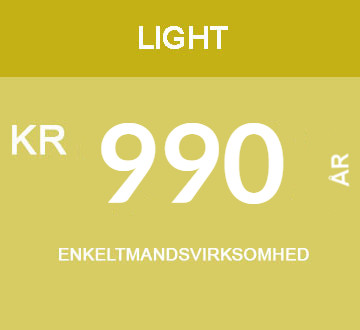
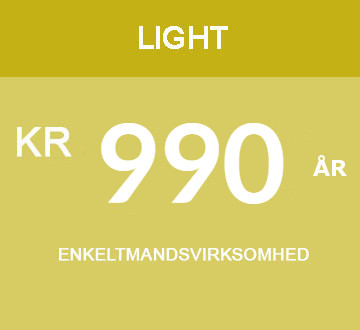
New updates of ebogholderen Price tags and contact image

Changed region(s): [[0.0306, 0.3636, 0.2139, 0.4848], [0.8556, 0.4545, 0.9778, 0.5758]]

diff --git a/frontend/assets/js/ebogholderen.pricing-plans.js b/frontend/assets/js/ebogholderen.pricing-plans.js
@@ -56,9 +56,9 @@ $(document).ready(function () {
                 button_highlight   = '#button_yearly';
                 button_unhighlight = '#button_monthly';
                 //images
-                $('.package-light').css('background-image','url(../frontend/assets/images/home/price-light-clean-maned.jpg?v=1.3)');
-                $('.package-standard').css('background-image','url(../frontend/assets/images/home/price-standard-clean-maned.jpg?v=1.3)');
-                $('.package-plus').css('background-image','url(../frontend/assets/images/home/price-plus-clean-maned.jpg?v=1.3)');
+                $('.package-light').css('background-image','url(../frontend/assets/images/home/price-light-clean-maned.jpg?v=1.4)');
+                $('.package-standard').css('background-image','url(../frontend/assets/images/home/price-standard-clean-maned.jpg?v=1.4)');
+                $('.package-plus').css('background-image','url(../frontend/assets/images/home/price-plus-clean-maned.jpg?v=1.4)');
             }else
             {//yearly
                 price_light      = {'from':95 , 'to':990};
@@ -67,9 +67,9 @@ $(document).ready(function () {
                 button_highlight   = '#button_monthly';
                 button_unhighlight = '#button_yearly';
                 //images
-                $('.package-light').css('background-image','url(../frontend/assets/images/home/price-light-clean.jpg?v=1.3)');
-                $('.package-standard').css('background-image','url(../frontend/assets/images/home/price-standard-clean.jpg?v=1.3)');
-                $('.package-plus').css('background-image','url(../frontend/assets/images/home/price-plus-clean.jpg?v=1.3)');
+                $('.package-light').css('background-image','url(../frontend/assets/images/home/price-light-clean.jpg?v=1.4)');
+                $('.package-standard').css('background-image','url(../frontend/assets/images/home/price-standard-clean.jpg?v=1.4)');
+                $('.package-plus').css('background-image','url(../frontend/assets/images/home/price-plus-clean.jpg?v=1.4)');
             }
 
             if($('#price_standard').html()==price_standard.to)

diff --git a/frontend/assets/css/styles.css b/frontend/assets/css/styles.css
@@ -1277,7 +1277,7 @@ input:focus {
 }
 
 .package-light{
-    background-image:url(../images/home/price-light-clean.jpg?v=1.2);
+    background-image:url(../images/home/price-light-clean.jpg?v=1.4);
     background-repeat:no-repeat;
     background-position:center center;
     padding-top: 93px;
@@ -1287,7 +1287,7 @@ input:focus {
 }
 
 .package-standard{
-    background-image:url(../images/home/price-standard-clean.jpg?v=1.2);
+    background-image:url(../images/home/price-standard-clean.jpg?v=1.4);
     background-repeat:no-repeat;
     background-position:center center;
     margin-right   : -2px;
@@ -1300,7 +1300,7 @@ input:focus {
     height:330px;
 }
 .package-plus{
-    background-image:url(../images/home/price-plus-clean.jpg?v=1.3);
+    background-image:url(../images/home/price-plus-clean.jpg?v=1.4);
     background-repeat:no-repeat;
     background-position:center center;
     padding-top: 96px;
@@ -2738,6 +2738,7 @@ div.pricing-start-free-trial{
   vertical-align: top;
   margin-left: 5px;
   margin-top: -13px;
+  padding-left: 10px;
 }
 
 .home-attention-row-wrapper .container{
@@ -2778,6 +2779,12 @@ div.pricing-start-free-trial{
     padding-top: 0;
 }
 
+.document-img.contact-img{
+    max-height: 512px;
+    width: auto;
+    margin-left:auto;
+    margin-right:auto;
+}
 
 @media (max-width: 1700px) {
     .home-attention-row-subcontainer{

diff --git a/frontend/views/site/parts/home-start-your-free-trial.php b/frontend/views/site/parts/home-start-your-free-trial.php
@@ -17,21 +17,21 @@ use yii\helpers\Html;
           <a href="<?= Url::to(["site/pricing-plans"]); ?>" class="pricing-img" >
           <?= 
             Html::img(
-              Url::to("@web/frontend/assets/images/home/price-light.jpg?v=1.3", true), 
+              Url::to("@web/frontend/assets/images/home/price-light.jpg?v=1.4", true), 
               ["alt" => "Light Bookkeeping", "class" => "img-responsive qtip1", 'title'=>Yii::t('app','If you’re self-employed without a separate company bank account and only have a few monthly receipts and invoices, but still want to keep your books in order. Then this Package is right for you.')]);
           ?>
           </a>
           <a href="<?= Url::to(["site/pricing-plans"]); ?>" class="pricing-img" >
           <?= 
             Html::img(
-              Url::to("@web/frontend/assets/images/home/price-standard.jpg?v=1.3", true), 
+              Url::to("@web/frontend/assets/images/home/price-standard.jpg?v=1.4", true), 
               ["alt" => "Standard Bookkeeping", "class" => "img-responsive mid qtip2", 'title'=>Yii::t('app','Never miss a receipt or tax deduction. This package will pay for itself while giving you peace of mind in the process. Let us do the grunt work (cheaply), and leave only the taxes to your CPA or Tax consultant.')]);
           ?>
           </a>
           <a href="<?= Url::to(["site/pricing-plans"]); ?>" class="pricing-img" >
           <?= 
             Html::img(
-              Url::to("@web/frontend/assets/images/home/price-plus.jpg?v=1.3", true), 
+              Url::to("@web/frontend/assets/images/home/price-plus.jpg?v=1.4", true), 
               ["alt" => "Plus Bookkeeping", "class" => "img-responsive qtip3", 'title'=>Yii::t('app','Why even pay a CPA or Tax Consultant if you don\'t have to. If your books are simple then so is your tax filing. Let us handle it all for just a little extra a month.')]);
           ?>
           </a>

diff --git a/frontend/views/site/parts/home-attention-row.php b/frontend/views/site/parts/home-attention-row.php
@@ -22,17 +22,9 @@ use yii\captcha\Captcha;
               </div>
             </h4>
             <h4 class="mobile-page-heading">
-              <?= Yii::t('app', 'TAX READY BOOKKEEPING'); ?>
+              <?= Yii::t('app', 'Vi laver løbende bogføring, moms- og årsopgørelse for kun 3.490 per år.'); ?>
               <div class="intro_sub_heading">
-                <?= Yii::t('app', 'By Certified Bookkeepers'); ?>
-                <br/>
-                <?= Yii::t('app', 'only $'); ?>
-                <span class="highlighted-price">
-                149
-                </span>
-                <span class="after-price">
-                <?= Yii::t('app', '/ month'); ?>
-                </span>
+                <?= Yii::t('app', 'Alt du skal gøre er at tage billeder af dine bilag med vores app'); ?>
               </div>
             </h4>
           </div>

diff --git a/frontend/views/site/contact.php b/frontend/views/site/contact.php
@@ -12,7 +12,7 @@ $this->registerJsFile(
     "depends" => "\\frontend\\assets\\AppAsset"
   ]);
 
-$this->params["top_banner"] = '<img src="' . Url::to("@web/frontend/assets/images/contact.jpg?v=1.0", true) . '" class="document-img img-responsive" />
+$this->params["top_banner"] = '<img src="' . Url::to("@web/frontend/assets/images/contact.jpg?v=1.2", true) . '" class="document-img img-responsive contact-img" />
 <div class="blue-contact-panel">
     <div class="col-lg-1">
     </div>
@@ -33,7 +33,7 @@ $this->params["top_banner"] = '<img src="' . Url::to("@web/frontend/assets/image
         DK-2100 Copenhagen<br/>
         DENMARK
         <br/><br/>
-        (+45) 9111 1197<br/>
+        (+45) 9111 1117<br/>
     </div>
 </div>
 ';

diff --git a/frontend/views/site/pricing-plans.php b/frontend/views/site/pricing-plans.php
@@ -7,7 +7,7 @@ $this->title = 'eBogholderen.dk - Hvilken Pakke er rigtig for mig?';
 
 
 $this->registerJsFile(
-  Url::to("@web/frontend/assets/js/ebogholderen.pricing-plans.js?v=1.6"), [
+  Url::to("@web/frontend/assets/js/ebogholderen.pricing-plans.js?v=1.7"), [
     "depends" => "\\frontend\\assets\\AppAsset"
   ]);
   

diff --git a/frontend/assets/AppAsset.php b/frontend/assets/AppAsset.php
@@ -27,7 +27,7 @@ class AppAsset extends AssetBundle {
     'css/icon-fonts.css',
     'css/pixeden-icons.css',
     'css/jquery.qtip.min.css',
-    'css/styles.css?v=7.8',
+    'css/styles.css?v=7.9',
     'css/responsive.css?v=6.4',
     'css/custom.css?v=3.9',
     'css/jquery.bxslider.css',
